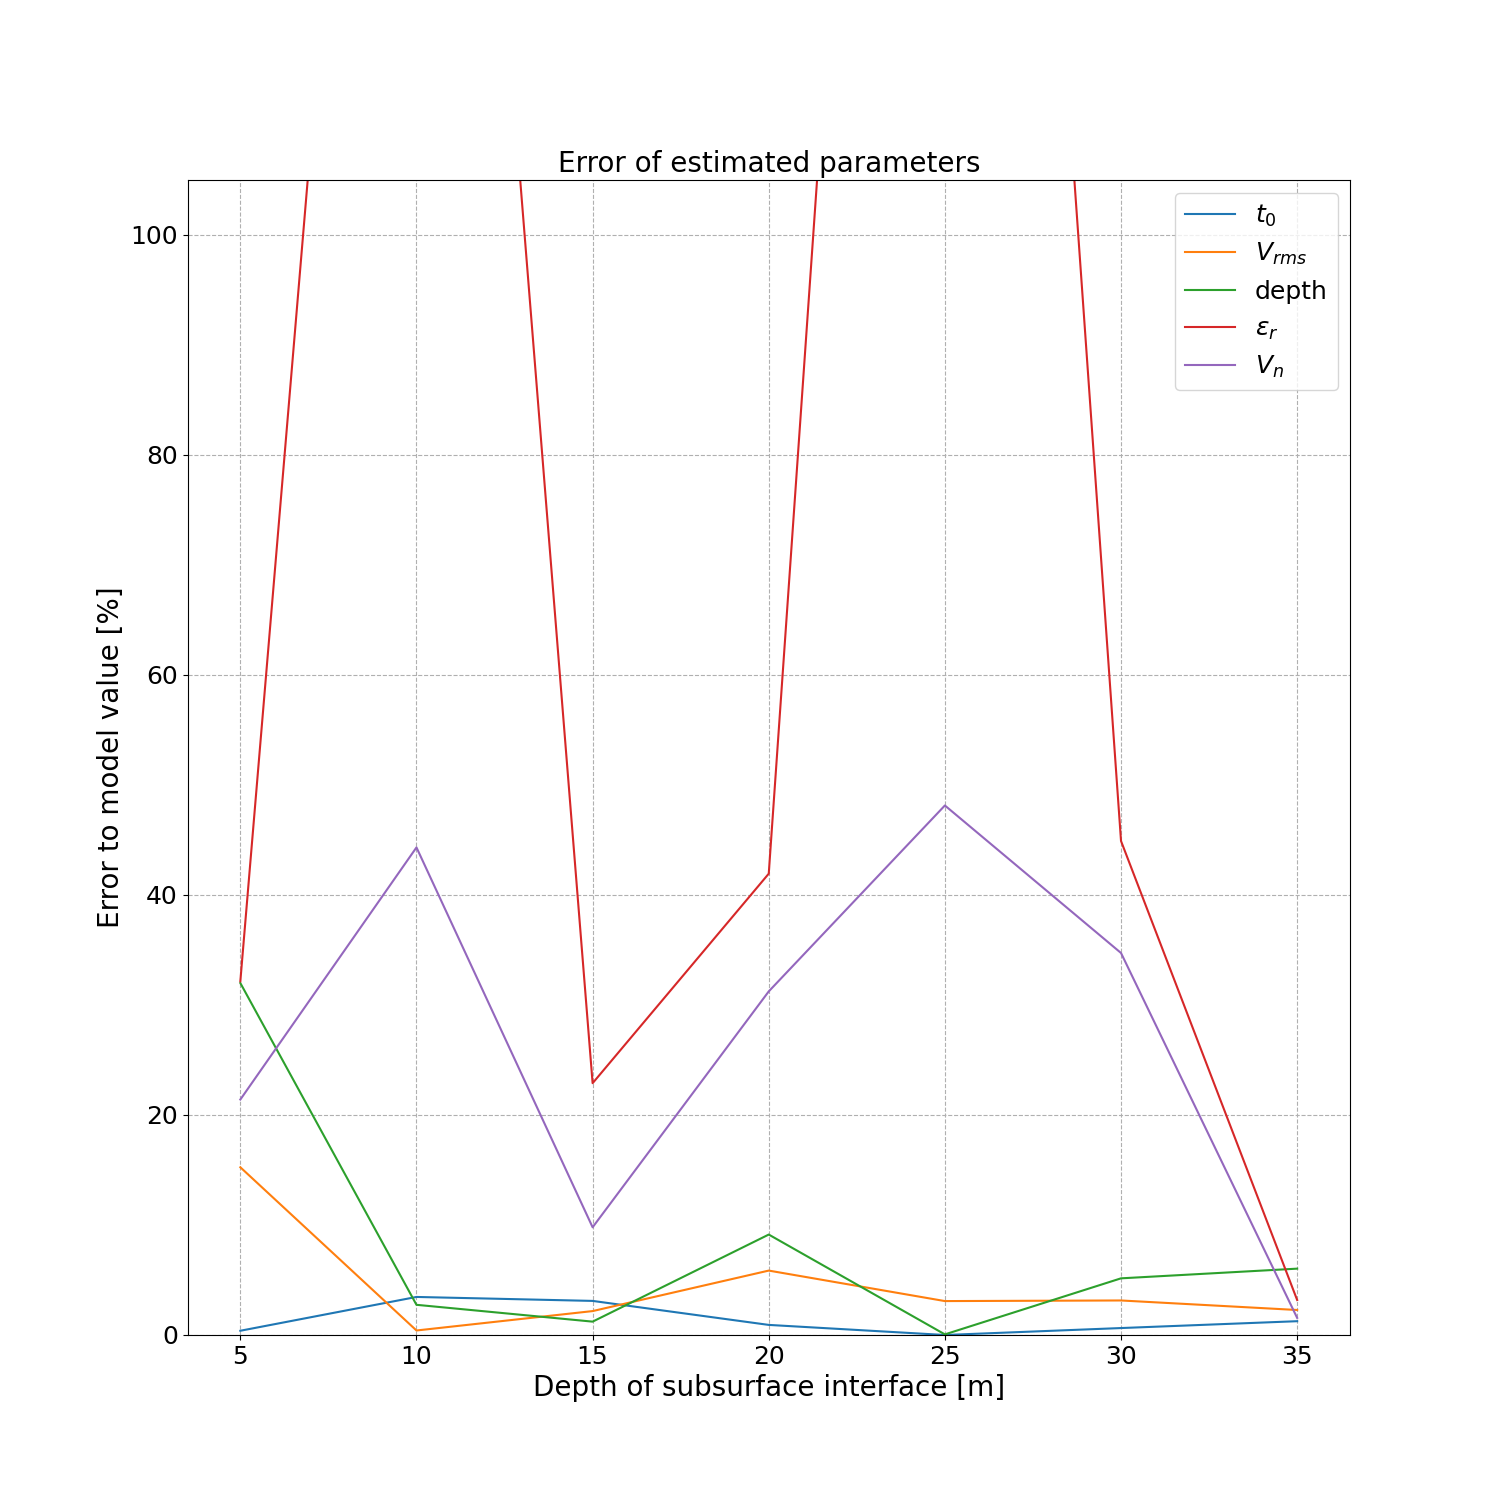
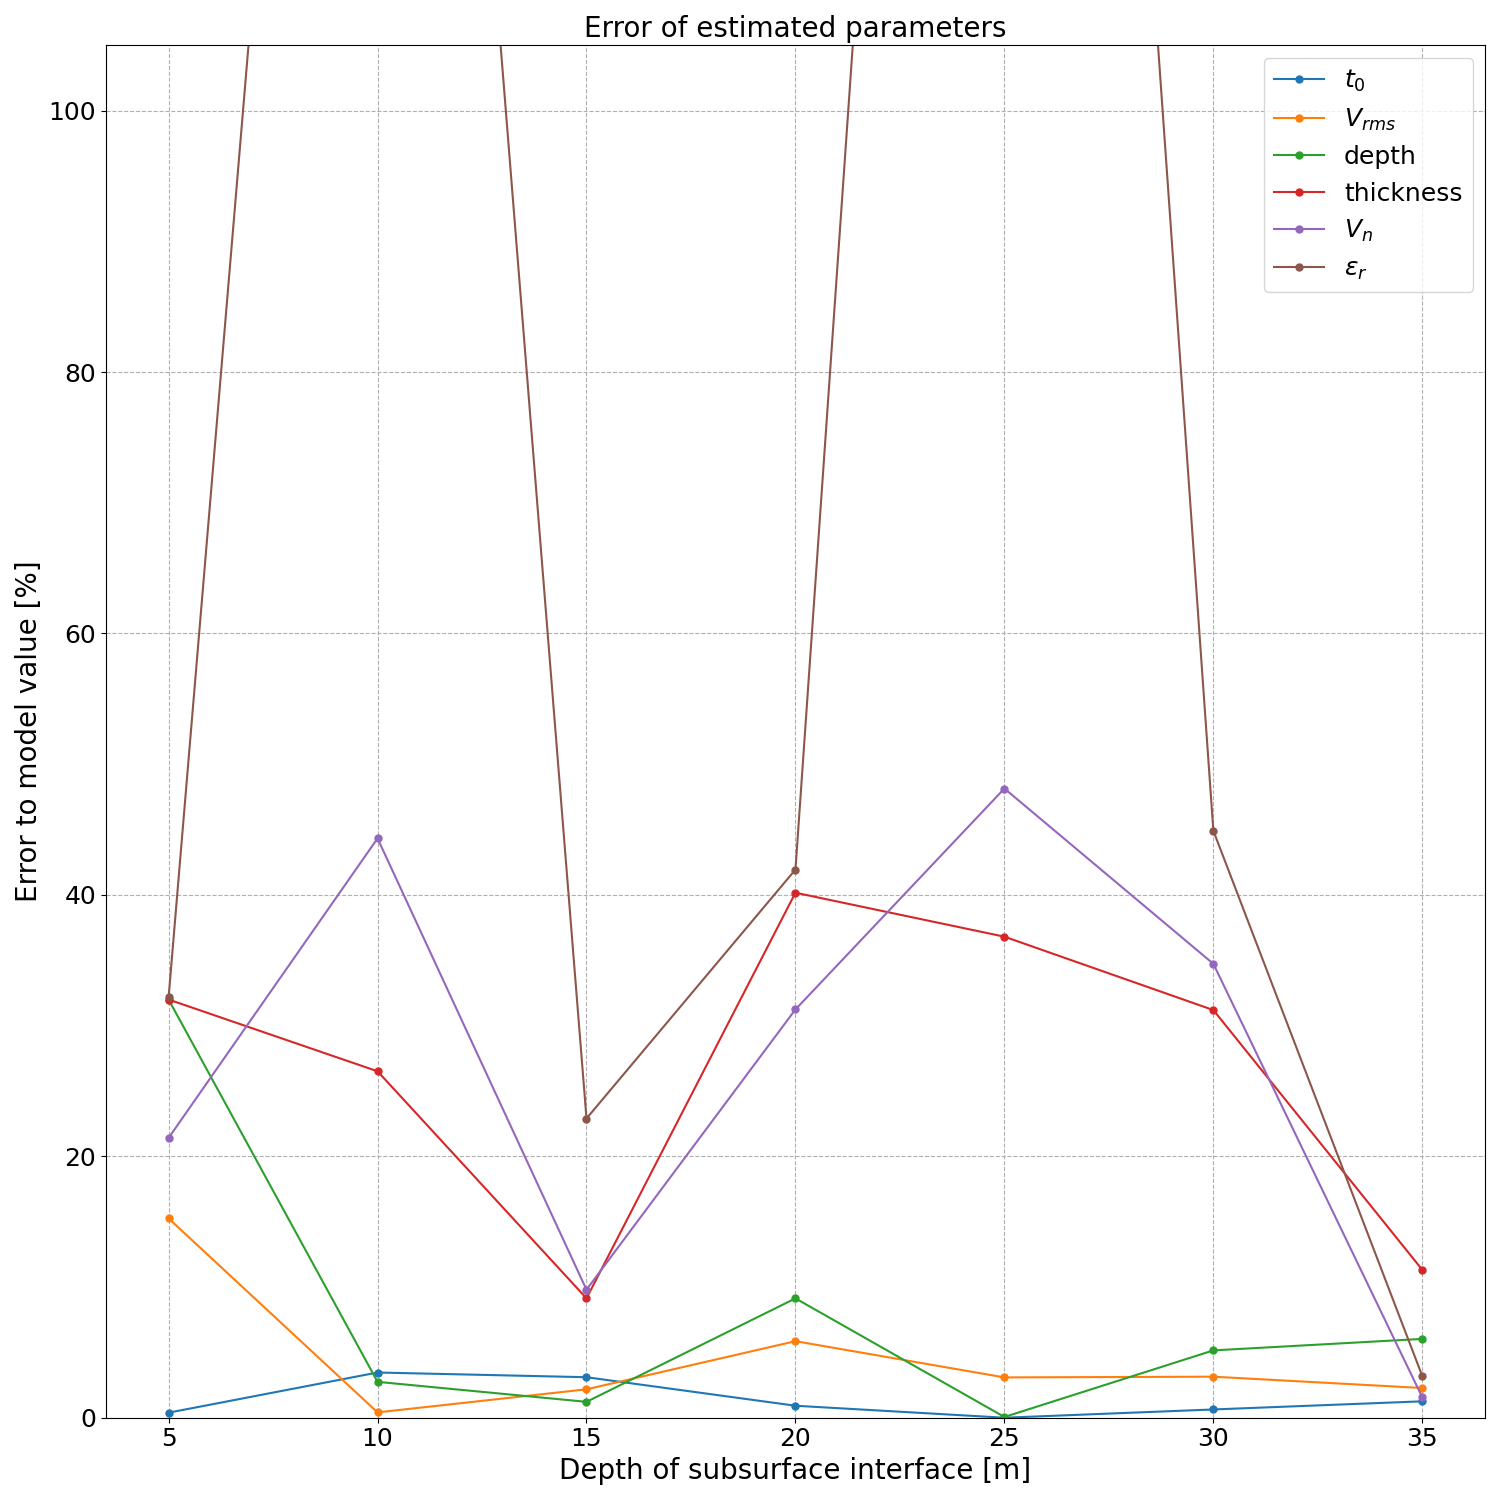
画像とCSVファイルの変更をコミットしました

diff --git a/tools/plot_error.py b/tools/plot_error.py
@@ -34,6 +34,7 @@ Vn_true = c / np.sqrt(epsilon_true) # [m/s], propagation velocity in each layers
 t0_estimated = np.array(params['tau_ver']) * 10**(-9) # [s]
 Vrms_estimated = np.array(params['V_RMS']) * c # [m/s]
 depth_estimated = t0_estimated * Vrms_estimated / 2 - params['antenna_height'] # [m], depth of each layers`
+thickness_estimated = np.diff(np.insert(depth_estimated, 0, 0)) # [m], thickness of each layers
 
 # load subsurface_structure.txt
 subsurface_structure = np.loadtxt(params['subsurface_structure'], delimiter=',')
@@ -45,18 +46,20 @@ Vn_estimated = np.nan_to_num(subsurface_structure[:,1] * c) # [m/s]
 t0_error = np.abs(t0_true - t0_estimated) / t0_true * 100
 Vrms_error = np.abs(Vrms_true - Vrms_estimated) / Vrms_true * 100
 depth_error = np.abs(depth_true - depth_estimated) / depth_true * 100
+thickness_error = np.abs(thickness_true - thickness_estimated) / thickness_true * 100
 epsilon_error = np.abs(epsilon_true - epsilon_estimated) / epsilon_true * 100
 Vn_error = np.abs(Vn_true - Vn_estimated) / Vn_true * 100
 
 
 
 #* plot error
-fig, ax = plt.subplots(1, 1, figsize=(15, 15))
-ax.plot(depth_true, t0_error, label=r'$t_0$')
-ax.plot(depth_true, Vrms_error, label=r'$V_{rms}$')
-ax.plot(depth_true, depth_error, label='depth')
-ax.plot(depth_true, epsilon_error, label=r'$\varepsilon_r$')
-ax.plot(depth_true, Vn_error, label=r'$V_n$')
+fig, ax = plt.subplots(1, 1, figsize=(15, 15), tight_layout=True)
+ax.plot(depth_true, t0_error, marker='.', markersize=10, label=r'$t_0$')
+ax.plot(depth_true, Vrms_error, marker='.', markersize=10, label=r'$V_{rms}$')
+ax.plot(depth_true, depth_error, marker='.', markersize=10, label='depth')
+ax.plot(depth_true, thickness_error, marker='.', markersize=10, label='thickness')
+ax.plot(depth_true, Vn_error, marker='.', markersize=10, label=r'$V_n$')
+ax.plot(depth_true, epsilon_error, marker='.', markersize=10, label=r'$\varepsilon_r$')
 
 ax.set_xlabel('Depth of subsurface interface [m]', fontsize=20)
 ax.set_ylabel('Error to model value [%]', fontsize=20)
@@ -75,7 +78,14 @@ plt.show()
 
 
 #* save error values as csv
-error_values = np.array([t0_error, Vrms_error, depth_error, epsilon_error, Vn_error]).T
-header = 't0 [%], Vrms [%], depth [%], epsilon [%], Vn [%]'
+# estimated value
+estimated_values = np.array([t0_estimated, Vrms_estimated, depth_estimated, thickness_estimated,
+                            epsilon_estimated, Vn_estimated]).T
+header = 't0 [s], Vrms [m/s], depth [m], thickness [m], epsilon_r, Vn [m/s]'
+np.savetxt(os.path.join(json_dir, 'estimated.csv'), estimated_values, delimiter=',', header=header, comments='')
+# error
+error_values = np.array([t0_error, Vrms_error, depth_error, thickness_error,
+                        epsilon_error, Vn_error]).T
+header = 't0 [%], Vrms [%], depth [%], thickness [%], epsilon [%], Vn [%]'
 np.savetxt(os.path.join(json_dir, 'error.csv'), error_values, delimiter=',', header=header, comments='')
 
